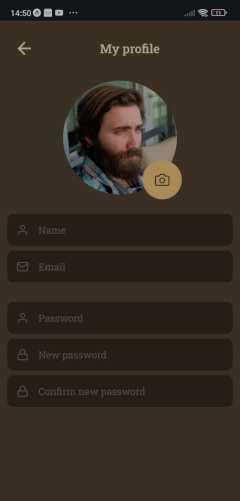
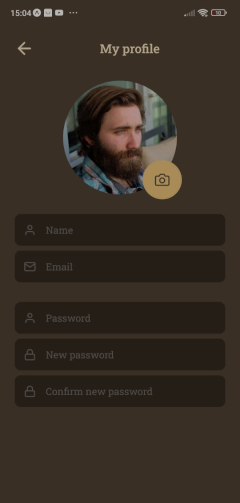
chore: edição do README.md

diff --git a/src/screens/Profile.tsx b/src/screens/Profile.tsx
@@ -1,9 +1,10 @@
 import Icon from '@expo/vector-icons/Feather';
-import { Image, View, KeyboardAvoidingView, ScrollView, TouchableOpacity } from 'react-native';
+import React from 'react';
+import { Image, View, KeyboardAvoidingView, TouchableOpacity } from 'react-native';
 
-import { colors } from '../theme';
-import HeaderTwo from './components/HeaderTwo';
-import Input from './components/Input';
+import { colors } from '../../theme';
+import HeaderTwo from '../components/HeaderTwo';
+import Input from '../components/Input';
 
 export default function Profile() {
   return (
@@ -21,7 +22,7 @@ export default function Profile() {
         bg={colors.black.background}
       />
 
-      <View style={{ alignItems: 'center', width: '100%', paddingHorizontal: 12 }}>
+      <View style={{ alignItems: 'center', width: '100%', paddingHorizontal: 24 }}>
         <View style={{ marginBottom: 32 }}>
           <Image
             source={{ uri: 'https://i.pravatar.cc/400?img=13' }}

diff --git a/App.tsx b/App.tsx
@@ -3,11 +3,11 @@ import { createNativeStackNavigator } from '@react-navigation/native-stack';
 import { StatusBar } from 'expo-status-bar';
 import React from 'react';
 
-import Profile from './src/Profile';
 import Appointement from './src/screens/Appointement';
 import Dashboard from './src/screens/Dasboard';
 import Forgot from './src/screens/Forgot';
 import Login from './src/screens/Login';
+import Profile from './src/screens/Profile';
 import Register from './src/screens/Register';
 
 export default function App() {
